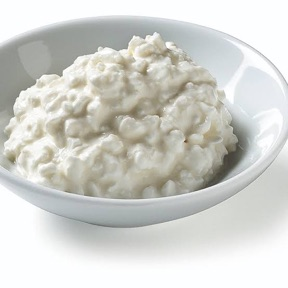
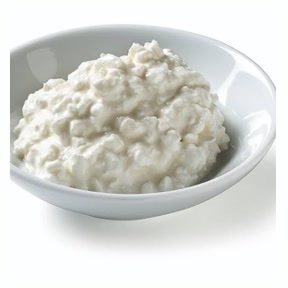
Shortcut tiles: square the assets, so the crop stops eating them
I told you the code matched the design and that a recompose or a redesign was
the only way out. The first half was right and the second was wrong — there was
a third option, and it was the actual bug.

The tile is 36x36 with resizeMode="cover". The design says exactly that:

  width:36px; height:36px; border-radius:12px;
  background-size:cover; background-position:center

Identical. But the design's OWN embedded tiles are 168x168 SQUARE with the
subject inset, and the shipped assets were not:

  meals      288x288  square
  fiber      288x227  landscape  -> crop ate the sides
  hydration  149x288  portrait   -> crop ate everything but a middle band
  recipes    288x192  landscape

Cover fills a square by discarding whatever does not fit. hydration.jpg was a
tall carton photographed edge to edge, so the square crop kept the "VITA COCO
Coconut" band and magnified it. It looked like a blurry zoom because that is
precisely what it was. The assets drifted from the design, not the CSS.

All four are now 288x288 with the subject at ~92% and padded in the photo's own
background colour — sampled per file, because recipes.jpg is cream (#FDF4E1)
and padding it white would have left a visible seam. 92% was measured against
the design's embedded tiles: 78% was my first pass and read noticeably smaller
than the reference side by side.

Checked by rendering old and new at 108px — 36pt at @3x, the true size — rather
than judging scaled-up mockups, which is how a thumbnail problem hides.
[…]

diff --git a/pepta-frontend/src/screens/app/shortcutAssets.test.ts b/pepta-frontend/src/screens/app/shortcutAssets.test.ts
@@ -1,0 +1,68 @@
+// The Home shortcut tile assets must be SQUARE.
+//
+// The tile is a 36×36 box with resizeMode="cover" (design: 36px, object-fit
+// cover, background-position center — the implementation has always matched).
+// Cover fills that square by cropping whatever does not fit, so a non-square
+// source loses its edges: hydration.jpg shipped at 149×288, and the square crop
+// showed nothing but the middle band of the Vita Coco carton, magnified. It
+// read as a blurry zoom because that is exactly what it was.
+//
+// The design's own embedded tiles were 168×168 with the subject inset — the
+// composition survives a square crop because there is nothing outside the
+// square to lose. The assets were the thing that drifted, not the CSS.
+//
+// So: square is the contract between the asset and the tile, and a test is the
+// only place to state it. Nothing else in the pipeline looks at aspect ratio —
+// Metro will happily bundle a panorama and the tile will happily crop it.
+
+import { readFileSync, readdirSync } from 'node:fs';
+import { join } from 'node:path';
+import { describe, expect, it } from 'vitest';
+
+const SHORTCUTS_DIR = join(__dirname, '..', '..', '..', 'assets', 'shortcuts');
+
+/**
+ * Width/height straight from the JPEG's SOF segment.
+ *
+ * Hand-parsed rather than pulled from a dependency: this test exists to police
+ * the build, so it should not add something to the build to do it.
+ */
+function jpegSize(bytes: Buffer): { width: number; height: number } {
+  let i = 2; // skip SOI
+  while (i < bytes.length) {
+    if (bytes[i] !== 0xff) {
+      i += 1;
+      continue;
+    }
+    const marker = bytes[i + 1]!;
+    // SOF0..SOF15 carry the frame header; C4 (DHT), C8 (JPG) and CC (DAC) do not.
+    const isSof = marker >= 0xc0 && marker <= 0xcf && ![0xc4, 0xc8, 0xcc].includes(marker);
+    if (isSof) {
+      return { height: bytes.readUInt16BE(i + 5), width: bytes.readUInt16BE(i + 7) };
+    }
+    i += 2 + bytes.readUInt16BE(i + 2);
+  }
+  throw new Error('no JPEG frame header found');
+}
+
+const files = readdirSync(SHORTCUTS_DIR).filter((f) => f.endsWith('.jpg'));
+
+describe('Home shortcut tile assets', () => {
+  it('has an asset for every tile', () => {
+    expect(files.sort()).toEqual(['fiber.jpg', 'hydration.jpg', 'meals.jpg', 'recipes.jpg']);
+  });
+
+  it.each(files)('%s is square, so the 36×36 cover crop loses nothing', (file) => {
+    const { width, height } = jpegSize(readFileSync(join(SHORTCUTS_DIR, file)));
+
+    expect(width).toBe(height);
+  });
+
+  it.each(files)('%s is big enough for a 3× screen', (file) => {
+    // 36pt at @3x is 108px. Anything smaller is upscaled by the OS and the
+    // "quality" problem comes back wearing different clothes.
+    const { width } = jpegSize(readFileSync(join(SHORTCUTS_DIR, file)));
+
+    expect(width).toBeGreaterThanOrEqual(108);
+  });
+});
